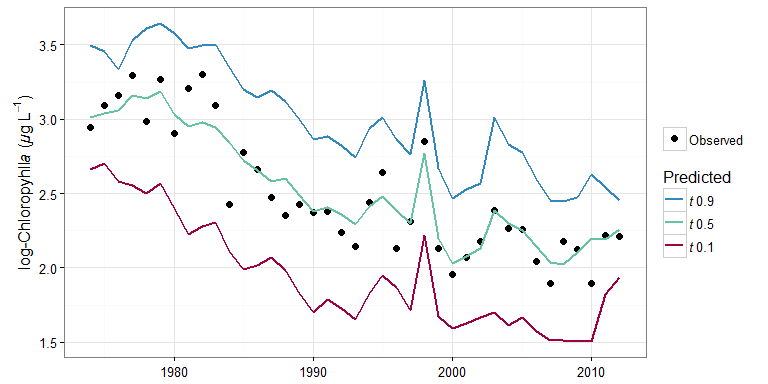
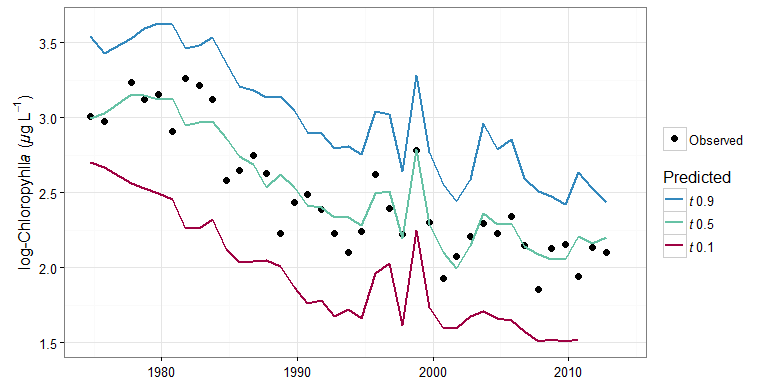
reknit readme

diff --git a/README.md b/README.md
@@ -348,6 +348,12 @@ gridplot(tidfit)
 
 ![](README_files/figure-html/unnamed-chunk-17-1.png)
 
+```r
+gridplot(tidfit, month = 'all')
+```
+
+![](README_files/figure-html/unnamed-chunk-17-2.png)
+
 The `wtsplot` function can be used to create diagnostic plots to view different weighting windows and how they are implemented during weighted regression.  The plots illustrate the weights that are used when fitting a weighted regression in reference to a single observation.  Five plots are produced by the function, each showing the weights in relation to time and the selected observation (i.e., center of the weighting window).  The top plot shows salinity/flow over time with the points colored and sized by the combined weight vector.  The remaining four plots show the weights over time for each separate weighting component (months/days, year, and salinity/flow) and the final combined vector. 
 
 
